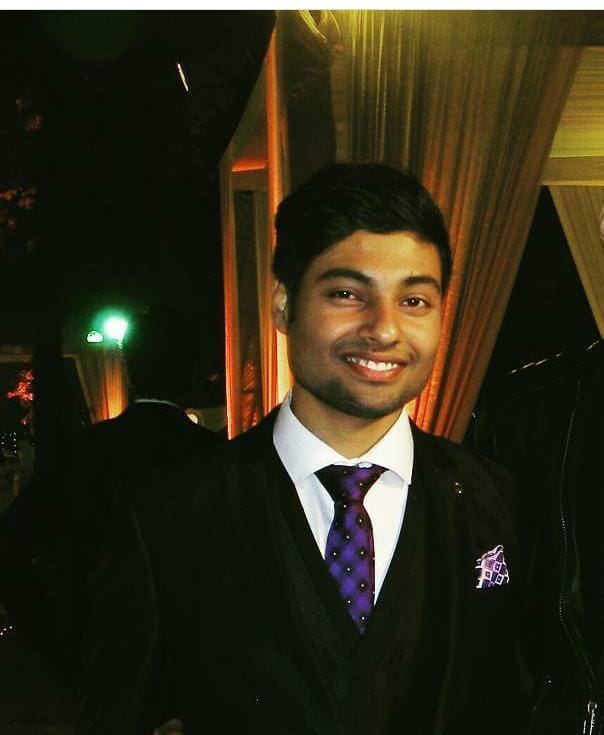
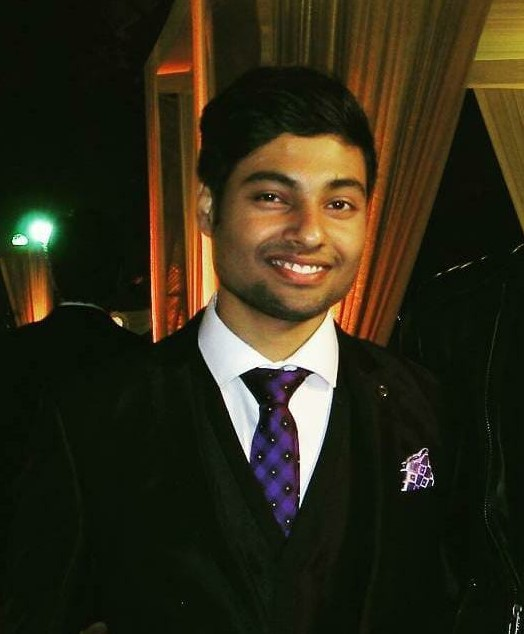
button updated

diff --git a/index.html b/index.html
@@ -150,8 +150,8 @@
                                     <div class="card-header bg-white text-center border-0 ">
                                         <div class="row justify-content-center ">
                                             <div class="col"> <img
-                                                    class="align-self-center text-center rounded-circle outside img-fluid"
-                                                    src="https://i.imgur.com/JI24t5h.jpg" width="110" height="110">
+                                                    class="align-self-center text-center outside img-fluid" style="border-radius: 15px;"
+                                                    src="./assets/Garima.jpeg" width="120" height="120">
                                             </div>
                                         </div>
                                         <div class="row text-center name">
@@ -237,7 +237,7 @@
                                         <div class="row justify-content-center ">
                                             <div class="col"> <img
                                                     class="align-self-center text-center outside img-fluid"  style="border-radius: 15px;"
-                                                    src="./assets/Tushar.jpeg" width="110" height="110">
+                                                    src="./assets/Tushar.jpeg" width="120" height="120">
                                             </div>
                                         </div>
                                         <div class="row text-center name">

diff --git a/css/programmes.css b/css/programmes.css
@@ -17,6 +17,7 @@ html body{
 
 }
 
+
 @media only screen and (min-width: 992px) {
     .hidden{
         display:none;
@@ -53,9 +54,9 @@ html body{
 
 
 button{
-    background-color: #39ff14 !important ;
-    border: 3px solid #39ff14 !important;
-    color:black !important;
+    background-color: #FF8C00 !important ;
+    border: 3px solid #FF8C00 !important;
+    color:white !important;
     font-weight: bolder !important;
     padding: 10px !important;
     width:auto !important;
@@ -63,6 +64,7 @@ button{
     border-radius: 20px !important;
     box-shadow:2px 4px gray;
 }
+
 
 
 #read-more-btn:active{

diff --git a/css/style.css b/css/style.css
@@ -28,6 +28,7 @@ h3{
     font-size: 40px !important;
 }
 
+
 @media only screen and (min-width: 992px) {
     .hidden{
         display:none;
@@ -125,9 +126,9 @@ h3{
 }
 
  button{
-    background-color: #39ff14 !important ;
-    border: 3px solid #39ff14 !important;
-    color:black !important;
+    background-color: #FF8C00 !important ;
+    border: 3px solid #FF8C00 !important;
+    color:white !important;
     font-weight: bolder !important;
     padding: 10px !important;
     width:auto !important;

diff --git a/css/about.css b/css/about.css
@@ -49,10 +49,11 @@ h2{
     padding-top: 30px;
 }
 
+
 button{
-    background-color: #39ff14 !important ;
-    border: 3px solid #39ff14 !important;
-    color:black !important;
+    background-color: #FF8C00 !important ;
+    border: 3px solid #FF8C00 !important;
+    color:white !important;
     font-weight: bolder !important;
     padding: 10px !important;
     width:auto !important;
@@ -60,6 +61,7 @@ button{
     border-radius: 20px !important;
     box-shadow:2px 4px gray;
 }
+
 
 
 

diff --git a/css/awards.css b/css/awards.css
@@ -95,9 +95,9 @@ html body{
 
 
 button{
-    background-color: #39ff14 !important ;
-    border: 3px solid #39ff14 !important;
-    color:black !important;
+    background-color: #FF8C00 !important ;
+    border: 3px solid #FF8C00 !important;
+    color:white !important;
     font-weight: bolder !important;
     padding: 10px !important;
     width:auto !important;

diff --git a/css/application.css b/css/application.css
@@ -79,6 +79,7 @@ a{
     }
 }
 
+
 @media only screen and (min-width: 992px) {
     .hidden{
         display:none;
